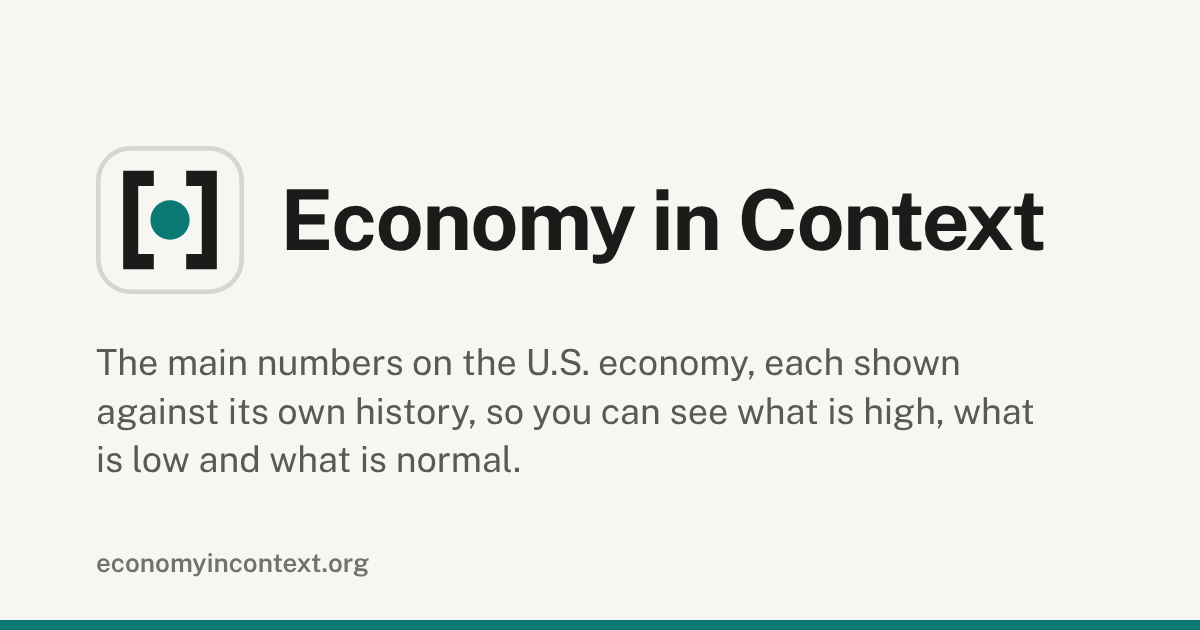
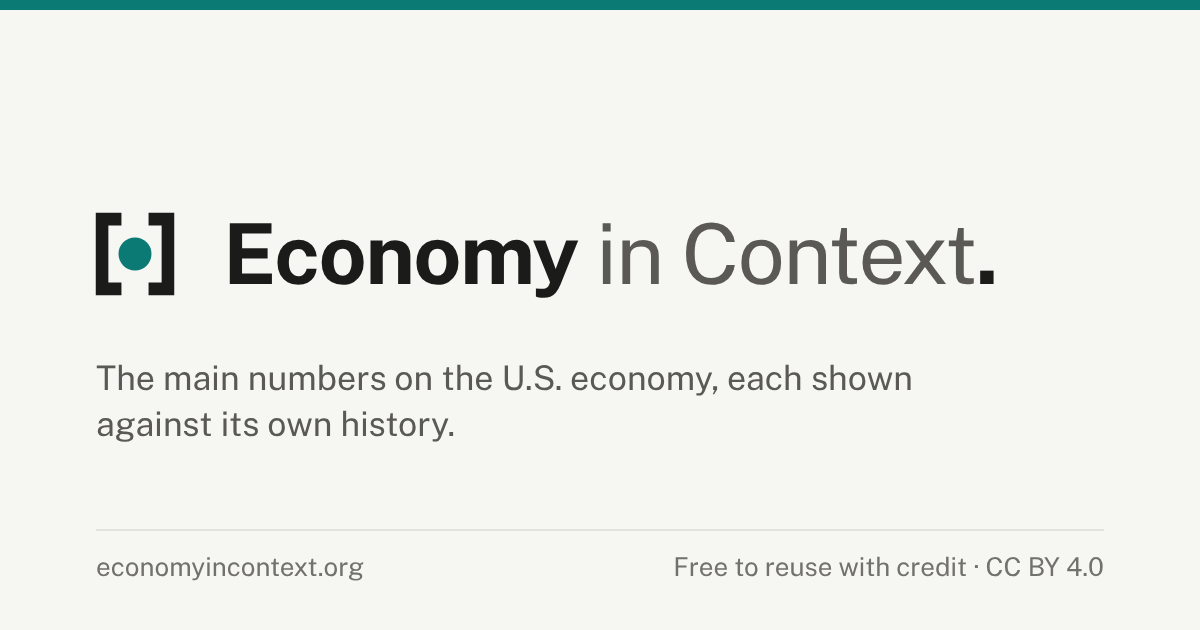
Add files via upload

diff --git a/index.html b/index.html
@@ -91,7 +91,7 @@
 
   /* Masthead ------------------------------------------------------------- */
   .masthead { padding: 40px 0 0; }
-  .masthead .title-row { display: flex; align-items: baseline; justify-content: space-between; gap: 8px 20px; margin: 0 0 10px; }
+  .masthead .title-row { display: flex; align-items: center; justify-content: space-between; gap: 8px 20px; margin: 0 0 10px; }   /* center, since the lockup has no text baseline of its own */
   .masthead .site-link { font-size: 15px; font-weight: 600; text-decoration: none; border-bottom: 1px solid var(--hairline); padding-bottom: 1px; white-space: nowrap; }
   .masthead .site-link:hover { border-color: var(--ink); }
   .masthead .site-links { display: flex; gap: 16px; }
@@ -119,6 +119,29 @@
      upcoming means no line). Each release is a link to its agency's release page; a release and its date stay on one line. */
   .masthead .coming { margin: 4px 0 0; color: var(--ink-2); font-size: 13.5px; }
   .masthead .coming .rel { white-space: nowrap; }
+  /* The lockup (Nov 4): the bracket mark beside the name, "Economy" in 700 and "in Context" in 400 Ink Secondary, then an
+     ink period. The h1's accessible name stays "Economy in Context": the mark and the period are aria-hidden. The mark's
+     left bracket lines up with the text edge below it. Same mark rules in site.css and chart.html (the crumbs). */
+  .masthead h1.brand { display: flex; align-items: center; }   /* on phones the name wraps to two lines beside the mark */
+  .brand .mark { flex: none; width: 1.4em; height: 1.4em; margin: 0 0.1em 0 -0.26em; }
+  .mark path { fill: none; stroke: var(--ink); stroke-width: 6.5; }
+  .mark circle { fill: var(--series); }
+  .brand .bl { font-weight: 400; color: var(--ink-2); white-space: nowrap; }   /* "in Context" never splits */
+  @media (max-width: 340px) { .masthead h1.brand { font-size: 23px; } }   /* 320px phones: still one line */
+  /* The weekly digest signup (Nov 4): a card like Chart to try between the tiles and the footer; a plain HTML form that
+     posts to Buttondown (no script). The field's border is Muted, not a hairline, so it passes 3:1. Same rules in site.css. */
+  .signup-wrap { padding-top: 8px; padding-bottom: 28px; }
+  .signup { max-width: 39em; padding: 14px 18px 16px; border: 1px solid var(--hairline); border-top: 2px solid var(--ink); border-radius: 6px; background: var(--surface); font-size: 15px; line-height: 1.45; scroll-margin-top: calc(var(--nav-h, 48px) + 8px); }
+  .signup h2 { margin: 0 0 4px; font-size: 12.5px; font-weight: 600; color: var(--ink-2); text-transform: uppercase; letter-spacing: 0.06em; }
+  .signup .stext { margin: 0 0 12px; text-wrap: pretty; }
+  .signup label { display: block; margin: 0 0 4px; font-size: 13.5px; color: var(--ink-2); }
+  .signup .srow { display: flex; flex-wrap: wrap; gap: 8px; }
+  .signup input[type="email"] { flex: 1 1 10em; min-width: 0; height: 44px; padding: 0 12px; border: 1px solid var(--muted); border-radius: 4px; background: var(--page); color: var(--ink); font: inherit; font-size: 16px; }
+  .signup button { height: 44px; padding: 0 18px; border: 1px solid var(--full-ink); border-radius: 4px; background: var(--full-ink); color: var(--surface); font: inherit; font-weight: 600; cursor: pointer; }
+  .signup button:hover { background: var(--ink); border-color: var(--ink); }
+  .signup .smeta { margin: 10px 0 0; font-size: 13.5px; color: var(--ink-2); }
+  .signup .smeta .sep { margin: 0 4px; color: var(--muted); }
+  @media print { .signup-wrap { display: none !important; } }
   /* Section nav: a bar below the masthead (sheet surface between two hairlines, with an "On this page" label), so it
      reads as a menu and not as a line of links; it stays at the top while you scroll. The section in view carries a
      2px ink rule along the bar's bottom edge. On phones: one sideways-scrolling row, no label. Same rules in site.css. */
@@ -143,7 +166,11 @@
   @media (max-width: 760px) {
     .masthead { padding-top: 22px; }
     .masthead .title-row { gap: 4px 12px; }
-    .masthead h1 { font-size: 28px; letter-spacing: -0.02em; }   /* stays on one line beside Articles at 375 */
+    .masthead h1 { font-size: 28px; letter-spacing: -0.02em; }
+    /* phones: Articles and About move to a small row at the top right; the lockup stays on one line below it */
+    .masthead .title-row { flex-wrap: wrap; row-gap: 8px; }
+    .masthead .site-links { order: -1; width: 100%; justify-content: flex-end; }
+    .masthead h1.brand { font-size: 26px; white-space: nowrap; }
     .masthead .site-link { font-size: 13.5px; }
     .masthead .updated { margin-top: 10px; }
     .secnav { margin-top: 10px; }
@@ -391,7 +418,7 @@
 
 <header class="masthead">
   <div class="wrap">
-    <div class="title-row"><h1>Economy in Context</h1><span class="site-links"><a class="site-link" href="articles/">Articles</a><a class="site-link" href="articles/about.html">About</a></span></div>
+    <div class="title-row"><h1 class="brand"><svg class="mark" viewBox="0 0 64 64" aria-hidden="true" focusable="false"><path d="M25 14H15V50H25"/><path d="M39 14H49V50H39"/><circle cx="32" cy="32" r="8.5"/></svg><span>Economy <span class="bl">in Context</span><span aria-hidden="true">.</span></span></h1><span class="site-links"><a class="site-link" href="articles/">Articles</a><a class="site-link" href="articles/about.html">About</a></span></div>
     <p class="tagline">The main numbers on the U.S. economy, each shown against its own history, so you can see what is high, what is low and what is normal.</p>
     <p class="updated" id="updated"></p>
     <p class="coming" id="coming" hidden></p>
@@ -402,6 +429,19 @@
 <main class="wrap" id="main">
   <p class="status" id="status" role="status">Loading the latest figures…</p>
 </main>
+
+<div class="wrap signup-wrap">
+  <section class="signup" id="weekly" aria-labelledby="weekly-h">
+    <h2 id="weekly-h">The weekly digest</h2>
+    <p class="stext">One email on Monday mornings: the week's new articles and charts, the numbers that moved most, and what comes out in the week ahead. No ads, and no tracking of opens or clicks.</p>
+    <form action="https://buttondown.com/api/emails/embed-subscribe/EconomyInContext" method="post">
+      <label for="weekly-email">Email address</label>
+      <div class="srow"><input type="email" id="weekly-email" name="email" autocomplete="email" required><button type="submit">Subscribe</button></div>
+      <input type="hidden" name="embed" value="1">
+    </form>
+    <p class="smeta"><a href="https://buttondown.com/EconomyInContext/archive/">Past issues</a><span class="sep" aria-hidden="true">·</span><a href="articles/how-this-site-is-paid-for.html#the-weekly-email">How addresses are kept</a></p>
+  </section>
+</div>
 
 <footer class="about">
   <div class="wrap">
@@ -419,7 +459,7 @@
     <p><strong>Articles</strong> explain each number in plain words, follow the numbers to five kinds of household, and take up what is argued about. Each number links to its own explainer, and all of them are linked from the top of the page.</p>
     <p id="attribution"></p>
     <p class="reuse">Free to reuse with credit: Economy in Context (economyincontext.org). The charts and writing here are licensed <a href="https://creativecommons.org/licenses/by/4.0/" rel="license noopener">CC BY 4.0</a>. Credit the data to its source, named on each chart.</p>
-    <p>This site has no ads and no agenda beyond putting the numbers in context. It sets no cookies and keeps nothing that identifies you; it does count page views. It is paid for by one reader; <a href="articles/how-this-site-is-paid-for.html">here is how</a>, how visits are counted, and how to chip in if you want to. Questions and corrections: <a href="mailto:hello@economyincontext.org">hello@economyincontext.org</a>.</p>
+    <p>This site has no ads and no agenda beyond putting the numbers in context. It sets no cookies and keeps nothing that identifies you; it does count page views. The optional weekly email is sent through Buttondown, which keeps the addresses for that and nothing else. It is paid for by one reader; <a href="articles/how-this-site-is-paid-for.html">here is how</a>, how visits are counted, and how to chip in if you want to. Questions and corrections: <a href="mailto:hello@economyincontext.org">hello@economyincontext.org</a>.</p>
     <p><a href="articles/about.html">About this site, where the numbers come from, and every correction →</a></p>
   </div>
 </footer>

diff --git a/chart.html b/chart.html
@@ -86,7 +86,15 @@
   body.embed .skips { display: none; }
   .sr-only { position: absolute; width: 1px; height: 1px; padding: 0; margin: -1px; overflow: hidden; clip: rect(0 0 0 0); white-space: nowrap; border: 0; }
   .crumb { font-size: 13.5px; color: var(--ink-2); margin: 0 0 10px; }
-  .crumb a { text-decoration: none; border-bottom: 1px solid var(--hairline); }
+  .crumb a { text-decoration: none; }
+  /* the crumb carries the small mark and the two-weight name (Nov 4); the underline sits under the name only. Same mark
+     rules in index.html and site.css. */
+  .crumb .name { border-bottom: 1px solid var(--hairline); }
+  .crumb a:hover .name { border-bottom-color: var(--ink); }
+  .crumb b { font-weight: 700; color: var(--ink); }
+  .crumb .mark { display: inline-block; width: 1.55em; height: 1.55em; margin: 0 0.12em 0 0; vertical-align: -0.42em; }
+  .mark path { fill: none; stroke: var(--ink); stroke-width: 6.5; }
+  .mark circle { fill: var(--series); }
   .masthead h1 { margin: 0; font-size: 28px; font-weight: 700; letter-spacing: -0.015em; line-height: 1.15; }
   .masthead .sub { margin: 4px 0 0; color: var(--ink-2); font-size: 17px; }
   .masthead .explainer { margin: 6px 0 0; font-size: 15px; color: var(--ink-2); }
@@ -321,7 +329,7 @@
 
 <header class="masthead">
   <div class="wrap">
-    <p class="crumb"><a href="/">← Economy in Context</a></p>
+    <p class="crumb"><a href="/">← <svg class="mark" viewBox="0 0 64 64" aria-hidden="true" focusable="false"><path d="M25 14H15V50H25"/><path d="M39 14H49V50H39"/><circle cx="32" cy="32" r="8.5"/></svg><span class="name"><b>Economy</b> in Context</span></a></p>
     <h1 id="title">Loading…</h1>
     <p class="sub" id="subtitle"></p>
     <p class="explainer" id="explainer" hidden></p>
@@ -337,7 +345,7 @@
     <p><strong>About overlays.</strong> Reference lines and companion series come from the same sources as the main figures. Eras and events are compiled by hand from the primary records linked beside each one, and each overlay states its selection rule. Nothing here is a claim about cause: the overlays show when things happened, and the reader decides what to make of it.</p>
     <p id="attribution"></p>
     <p class="reuse">Free to reuse with credit: Economy in Context (economyincontext.org). The charts and writing here are licensed <a href="https://creativecommons.org/licenses/by/4.0/" rel="license noopener">CC BY 4.0</a>. Credit the data to its source, named on each chart.</p>
-    <p>This site has no ads and no agenda beyond putting the numbers in context. It sets no cookies and keeps nothing that identifies you; it does count page views. It is paid for by one reader; <a href="/articles/how-this-site-is-paid-for.html">here is how</a>, how visits are counted, and how to chip in if you want to. Questions and corrections: <a href="mailto:hello@economyincontext.org">hello@economyincontext.org</a>.</p>
+    <p>This site has no ads and no agenda beyond putting the numbers in context. It sets no cookies and keeps nothing that identifies you; it does count page views. The optional weekly email is sent through Buttondown, which keeps the addresses for that and nothing else. It is paid for by one reader; <a href="/articles/how-this-site-is-paid-for.html">here is how</a>, how visits are counted, and how to chip in if you want to. Questions and corrections: <a href="mailto:hello@economyincontext.org">hello@economyincontext.org</a>.</p>
     <p><a href="/articles/about.html">About this site, where the numbers come from, and every correction →</a></p>
   </div>
 </footer>

diff --git a/assets/site.css b/assets/site.css
@@ -210,6 +210,30 @@ a:hover { text-decoration-color: var(--ink); }
 footer.about { border-top: 1px solid var(--hairline); padding: 22px 0 44px; font-size: 13.5px; color: var(--ink-2); }
 footer.about p { max-width: 48em; margin: 0 0 8px; }
 
+/* The crumb's home link (Nov 4): the small mark and the two-weight name, underlined under the name only.
+   Same mark rules in index.html (the masthead lockup) and chart.html (its crumb). */
+.crumb a.home { border-bottom: 0; }
+.crumb a.home .name { border-bottom: 1px solid var(--hairline); }
+.crumb a.home:hover .name { border-bottom-color: var(--ink); }
+.crumb b { font-weight: 700; color: var(--ink); }
+.crumb .mark { display: inline-block; width: 1.55em; height: 1.55em; margin: 0 0.12em 0 -0.28em; vertical-align: -0.42em; }
+.mark path { fill: none; stroke: var(--ink); stroke-width: 6.5; }
+.mark circle { fill: var(--series); }
+
+/* The weekly digest signup (Nov 4): a card like Chart to try before the footer of every article page and the index;
+   a plain HTML form that posts to Buttondown (no script). Same rules in index.html. */
+.signup-wrap { padding-top: 8px; padding-bottom: 28px; }
+.signup { max-width: var(--measure); padding: 14px 18px 16px; border: 1px solid var(--hairline); border-top: 2px solid var(--ink); border-radius: 6px; background: var(--surface); font-size: 15px; line-height: 1.45; }
+.signup h2 { margin: 0 0 4px; font-size: 12.5px; font-weight: 600; color: var(--ink-2); text-transform: uppercase; letter-spacing: 0.06em; }
+.signup .stext { margin: 0 0 12px; }
+.signup label { display: block; margin: 0 0 4px; font-size: 13.5px; color: var(--ink-2); }
+.signup .srow { display: flex; flex-wrap: wrap; gap: 8px; }
+.signup input[type="email"] { flex: 1 1 10em; min-width: 0; height: 44px; padding: 0 12px; border: 1px solid var(--muted); border-radius: 4px; background: var(--page); color: var(--ink); font: inherit; font-size: 16px; }
+.signup button { height: 44px; padding: 0 18px; border: 1px solid var(--full-ink); border-radius: 4px; background: var(--full-ink); color: var(--surface); font: inherit; font-weight: 600; cursor: pointer; }
+.signup button:hover { background: var(--ink); border-color: var(--ink); }
+.signup .smeta { margin: 10px 0 0; font-size: 13.5px; color: var(--ink-2); }
+.signup .smeta .sep { margin: 0 4px; color: var(--muted); }
+
 /* The map on the Plain words index (built by tools/build_articles.py) */
 .article > figure.map { max-width: 480px; margin: 22px 0 8px; }
 .map svg { display: block; width: 100%; height: auto; font-family: inherit; }
@@ -230,7 +254,7 @@ h1, h2, h3, h4, .dek { text-wrap: balance; }
 @media print {
   :root { --page: #fff; --surface: #fff; }
   body { background: #fff; }
-  .crumb, .secnav, .lead, .feed-link, .series-parts, .series-next { display: none !important; }
+  .crumb, .secnav, .lead, .feed-link, .series-parts, .series-next, .signup-wrap { display: none !important; }
   .article .series { margin-top: 0; }
   .article figure.chart-embed, .article .figure, .article .table-scroll, .map { break-inside: avoid; }
   .article figure.chart-embed { width: 100%; }

diff --git a/tools/build_articles.py b/tools/build_articles.py
@@ -556,17 +556,29 @@ HEAD = """<!doctype html>
 <body>
 <header class="masthead">
   <div class="wrap">
-    <p class="crumb"><a href="../">Economy in Context</a> <span class="sep">/</span> <a href="./">Articles</a></p>
+    <p class="crumb"><a class="home" href="../"><svg class="mark" viewBox="0 0 64 64" aria-hidden="true" focusable="false"><path d="M25 14H15V50H25"/><path d="M39 14H49V50H39"/><circle cx="32" cy="32" r="8.5"/></svg><span class="name"><b>Economy</b> in Context</span></a> <span class="sep">/</span> <a href="./">Articles</a></p>
   </div>
 </header>
 """
 
 FOOT = """
+<div class="wrap signup-wrap">
+  <section class="signup" id="weekly" aria-labelledby="weekly-h">
+    <h2 id="weekly-h">The weekly digest</h2>
+    <p class="stext">One email on Monday mornings: the week's new articles and charts, the numbers that moved most, and what comes out in the week ahead. No ads, and no tracking of opens or clicks.</p>
+    <form action="https://buttondown.com/api/emails/embed-subscribe/EconomyInContext" method="post">
+      <label for="weekly-email">Email address</label>
+      <div class="srow"><input type="email" id="weekly-email" name="email" autocomplete="email" required><button type="submit">Subscribe</button></div>
+      <input type="hidden" name="embed" value="1">
+    </form>
+    <p class="smeta"><a href="https://buttondown.com/EconomyInContext/archive/">Past issues</a><span class="sep" aria-hidden="true">·</span><a href="how-this-site-is-paid-for.html#the-weekly-email">How addresses are kept</a></p>
+  </section>
+</div>
 <footer class="about">
   <div class="wrap">
     <p>Articles on this site aim to lay out what the figures show, what is settled, what is argued about and by whom. Every number links to its source where one exists, and corrections are noted on the article. The charts are live from the almanac and update as agencies publish.</p>
     <p class="reuse">Free to reuse with credit: Economy in Context (economyincontext.org). The charts and writing here are licensed <a href="https://creativecommons.org/licenses/by/4.0/" rel="license noopener">CC BY 4.0</a>. Credit the data to its source, named on each chart.</p>
-    <p>This site has no ads and no agenda beyond putting the numbers in context. It sets no cookies and keeps nothing that identifies you; it does count page views. It is paid for by one reader; <a href="how-this-site-is-paid-for.html">here is how</a>, how visits are counted, and how to chip in if you want to. Questions and corrections: <a href="mailto:hello@economyincontext.org">hello@economyincontext.org</a>.</p>
+    <p>This site has no ads and no agenda beyond putting the numbers in context. It sets no cookies and keeps nothing that identifies you; it does count page views. The optional weekly email is sent through Buttondown, which keeps the addresses for that and nothing else. It is paid for by one reader; <a href="how-this-site-is-paid-for.html">here is how</a>, how visits are counted, and how to chip in if you want to. Questions and corrections: <a href="mailto:hello@economyincontext.org">hello@economyincontext.org</a>.</p>
     <p class="about-link"><a href="about.html">About this site, how it works, and every correction →</a></p>
   </div>
 </footer>

diff --git a/DESIGN.md b/DESIGN.md
@@ -222,7 +222,7 @@ A warm-neutral paper-and-ink palette with one teal accent and a reserved set of 
 The almanac and chart pages use one scale: **11 · 12.5 · 13.5 · 15 · 16 (base) · 17 · 19 · 22 · 28 · 40 · 44px**, with four steps between 11 and 15. Chart text is 11px everywhere inside an SVG (axes, lanes, events, credits), except range-strip labels, which are 12.5px: they are the context the site is named for, so they are never the smallest text on the page. The images made for download and social posts have their own sizes, set for the image's frame. Article pages (`assets/site.css`) use the same scale from 17px body text: the title 40px (28px on phones), the dek 19px (17px), section heads 22px, list titles 22px, captions, datelines and footers 13.5px, small labels 12.5px.
 
 ### Hierarchy
-- **Display** (700, 40px; 28px on phones, 1.1): the site name on the almanac masthead. A chart page's indicator name is 28px at every width, so the reading stays the largest thing on screen.
+- **Display** (700, 40px; 28px on phones, 1.1): the site name on the almanac masthead, set as the lockup (see Masthead): "Economy" in 700, "in Context" in 400 Ink Secondary, an ink period. A chart page's indicator name is 28px at every width, so the reading stays the largest thing on screen.
 - **Reading** (600, 40px on tiles, 44px on chart pages, 1.0, tight tracking): the latest value of an indicator. The largest number on any screen is always the reading.
 - **Headline** (700, clamp 28–40px, 1.12): article titles.
 - **Title** (700, 22px, 1.2): section and article h2 headings; the "At a glance" heading.
@@ -279,7 +279,9 @@ Gently squared. Three radii: 2px for small swatches and focus outlines, 4px for 
 - **In short:** one plain paragraph under each section heading on the almanac, 15px Ink Secondary, max 46em, led by "In short:" in 600 ink. Written at every refresh by `section_summaries()` in `fetch_fred.py` from templates, never by a model: every number is a tile's current reading, its rank in its own history ("lower than in three-quarters of months since 1948", "near the middle of its history"), a record, or a figure from a household line; the only non-number words are connectives ("but", "and well above") and four plain bins (high, low, ordinary, near the record). No adjectives of judgment. A missing input drops its clause; a section with nothing to say gets no paragraph. Added Nov 4 after a reader asked for a quick summary of what each section's charts mean.
 - **Series box (articles):** on each part, right under the dateline: a 2px ink rule down the left, 14px in, 15px text. "SERIES, PART 2 OF 3" as a label, the series title (600, hairline underline) linking to the series group on the articles index, then the parts as pill buttons in one wrapping row, the same pills as the Featured card's (Sheet fill, 45% teal border, 999px radius, numbered circle, 600 teal ink; hover to ink): the part you are reading is the filled one, teal with sheet-colored text, and is not a link (`aria-current="page"`). Chosen Nov 4 from three mocks so the series looks the same on the almanac, the articles index and the article itself. 30px tall, 38px on phones.
 - **Next in this series:** the same left rule before See also (or Sources): "NEXT IN THIS SERIES, PART 3 OF 3" and the next part's full title with an arrow; the last part instead reads "EARLIER IN THIS SERIES" with numbered links back. Not printed. On the articles index the series' parts sit together under The ideas, at the first part's place, under a "SERIES" label and the series title (15px ink), in the series' order.
-- **Masthead:** site name left, "Articles" and "About" right on the same row (16px apart, the same underlined link style), tagline in Ink Secondary, a short Updated line in Muted, then the Coming up line.
+- **Masthead:** site name left, "Articles" and "About" right on the same row (16px apart, the same underlined link style), tagline in Ink Secondary, a short Updated line in Muted, then the Coming up line. The site name is the lockup (chosen Nov 4): the mark (two Ink brackets around a teal dot, `assets/icon.svg` without its tile) at 1.05em, its left bracket on the text edge, then "Economy" in 700 Ink, "in Context" in 400 Ink Secondary, and a period in Ink. The mark's dot is the only teal in it, so the accent still means "the reading". The h1's accessible name is just "Economy in Context" (mark and period hidden). On phones (≤760px) Articles and About move to a small row at the top right and the lockup sits on one line below it at 26px (23px under 340px); a two-line stacked lockup was tried and read as clunky. The social card and the weekly email's header use the same lockup.
+- **Crumb home link:** on article and chart pages the first crumb carries the mark at 1.55em and the name as "Economy" in 700 Ink and "in Context" in Ink Secondary (no period, since a crumb continues), with the hairline underline under the name only.
+- **Weekly digest signup:** a card before the footer of the almanac, every article page and the articles index, styled like Chart to try (Sheet, 2px ink rule on top, hairline sides, 6px radius, 15px text, at most the reading measure wide): "THE WEEKLY DIGEST" label, one sentence on what the email holds, a labeled email field (44px, Page fill, a Muted border so the field passes 3:1) and a "Subscribe" button (44px, filled in the button's teal ink, Sheet text; hover Ink), then "Past issues · How addresses are kept" in 13.5px. A plain HTML form posting to Buttondown, no script; hidden in print.
 - **Coming up:** one quiet line under the Updated line, 13.5px in Ink Secondary: "Next releases:" and up to four headline releases, soonest first, each the release's reader-facing name as an underlined link to the agency's release page, a space, and the date as "Fri, Nov 6" (U.S. English, no time, no year; a name and its date never break across lines). Separated by " · ", so it reads as a sentence, not a list. Drawn from the release calendar the refresh writes into `data/series.json`, through a curated table of eight releases (jobs, consumer prices, GDP, PCE, job openings, housing starts, producer prices, the trade balance); daily and weekly releases are left out, as is BLS's Average Price Data, which always comes out with the CPI, and a date within ten days of the release's previous date is treated as a revision or supplement and skipped. Written at build time for the build's date and redrawn by the script for the reader's date; nothing upcoming, or no calendar, means no line. Not printed.
 - **Section nav:** the same bar on the almanac and the articles index, between the title block and the lead items: a Sheet-colored strip between two hairlines, an "ON THIS PAGE" label (12.5px uppercase, Ink Secondary) and the section links at 15px/600 in Ink Secondary with no underline, so it reads as a menu and not as a line of links. The section whose top has passed under the bar is marked (`aria-current`): ink text and a 2px ink rule on the bar's bottom edge (hover: a Muted rule). Sticky at the top at every width. On phones the label goes and the row scrolls sideways: 46px targets, fades at an edge with more to scroll to, the marked link kept in view. Jumps land just below it (scroll margin from its measured height). The articles index gets the bar from `build_articles.py` and its wayfinding from `assets/secnav.js`; the almanac builds both in index.html.
 - **Back to the overview:** "↑ At a glance" at the right of every section heading (not in the tiles-only view).

diff --git a/articles/src/how-this-site-is-paid-for.md b/articles/src/how-this-site-is-paid-for.md
@@ -2,13 +2,13 @@
 title: How This Site Is Paid For
 dek: What it costs, who pays, and what it will not do.
 date: 2026-10-28
-updated: 2026-10-31
+updated: 2026-11-04
 kind: page
 ---
 
 ## What it costs
 
-Two domain names, about $30 a year together, and research tools, about $200 a month: about $2,430 a year in all. Hosting is free: the pages are static files served by GitHub, the figures come from the St. Louis Fed's public data service, and the email forwarding is free. There is no server, no database, and no bill for traffic. The other cost is time, which is considerable and unpaid.
+Two domain names, about $30 a year together, and research tools, about $200 a month: about $2,430 a year in all. Hosting is free: the pages are static files served by GitHub, the figures come from the St. Louis Fed's public data service, the email forwarding is free, and so is the weekly email, sent through Buttondown's free plan. There is no server, no database, and no bill for traffic. The other cost is time, which is considerable and unpaid.
 
 ## Who pays
 
@@ -23,6 +23,10 @@ No ads, and no tracking of who you are: the site sets no cookies and loads nothi
 The site counts page views with [GoatCounter](https://www.goatcounter.com), an open-source counter run on donations. When a page loads, your browser sends GoatCounter the page's address, the site that linked you here if any, and your screen width; GoatCounter works out a rough location and the kind of browser from the request. It [never stores your IP address](https://www.goatcounter.com/help/sessions) and recognizes a returning visit for eight hours at most, so it cannot follow anyone from one day to the next or onto other sites. Charts embedded in other pages are not counted.
 
 What the counts show is which pages get read and which sites send readers here. To stop your own visits being counted in a browser, open [this link](../#toggle-goatcounter) in it; opening it again turns counting back on. Ad blockers usually stop the count too.
+
+## The weekly email
+
+The [weekly digest](https://buttondown.com/EconomyInContext) is optional: one email on Monday mornings with the week's new articles and charts, the numbers that moved and what comes out next. It is sent through [Buttondown](https://buttondown.com), which keeps the list of addresses. Addresses are used to send the digest and for nothing else, and are never shared or sold. The emails carry no open or click tracking, every one has an unsubscribe link, and a reply reaches the editor. Past issues are [in the archive](https://buttondown.com/EconomyInContext/archive/).
 
 ## If you want to chip in
 

diff --git a/PRODUCT.md b/PRODUCT.md
@@ -40,11 +40,12 @@ Success is a reader who leaves able to place the number they came with, and who 
 - Changes reach the site through manual uploads to the repository; there is no automated deploy from an assistant.
 - The site is published without a byline under its own identity. Nothing on it may identify the person who runs it: no personal accounts, no career or local detail, no links to personal profiles.
 - Page views are counted without cookies (GoatCounter); the privacy wording on the site must change if counting changes.
+- The weekly email (Nov 4) is opt-in and sent through Buttondown (newsletter EconomyInContext), which keeps the addresses; no open or click tracking, no UTM tags on links. The footers and How This Site Is Paid For say so; change them if any of that changes.
 
 ## Brand Commitments
 
 - Name: Economy in Context; domain economyincontext.org.
-- The mark: two brackets around a dot (`assets/icon.svg`), with the favicon set and social card in `assets/`.
+- The mark: two brackets around a dot (`assets/icon.svg`), with the favicon set and social card in `assets/`. Since Nov 4 it sits beside the name as one lockup ("Economy" bold, "in Context" regular, an ink period) on the almanac, the social card and the weekly email.
 - Voice: plain words, short sentences, numbers with their period and source. No advice, no villains, no mascots, no sports analogies; every analogy says where it breaks.
 - Restraint is the brand: no value-judgment colors (good/bad, red/green) on readings, and nothing that reads as a thumb on the scale.
 - License line: charts and writing are CC BY 4.0; data is credited to its agency.

diff --git a/articles/src/about.md b/articles/src/about.md
@@ -42,7 +42,7 @@ Every correction so far, newest first:
 
 ## Reuse
 
-The site's charts and writing are licensed [CC BY 4.0](https://creativecommons.org/licenses/by/4.0/): free to reuse, including commercially, with credit to Economy in Context (economyincontext.org). The data belongs to the agencies that publish it; credit them too, as each chart does. New articles are listed in [the Atom feed](feed.xml).
+The site's charts and writing are licensed [CC BY 4.0](https://creativecommons.org/licenses/by/4.0/): free to reuse, including commercially, with credit to Economy in Context (economyincontext.org). The data belongs to the agencies that publish it; credit them too, as each chart does. New articles are listed in [the Atom feed](feed.xml) and in [the weekly email](how-this-site-is-paid-for.html#the-weekly-email).
 
 ## Contact
 
